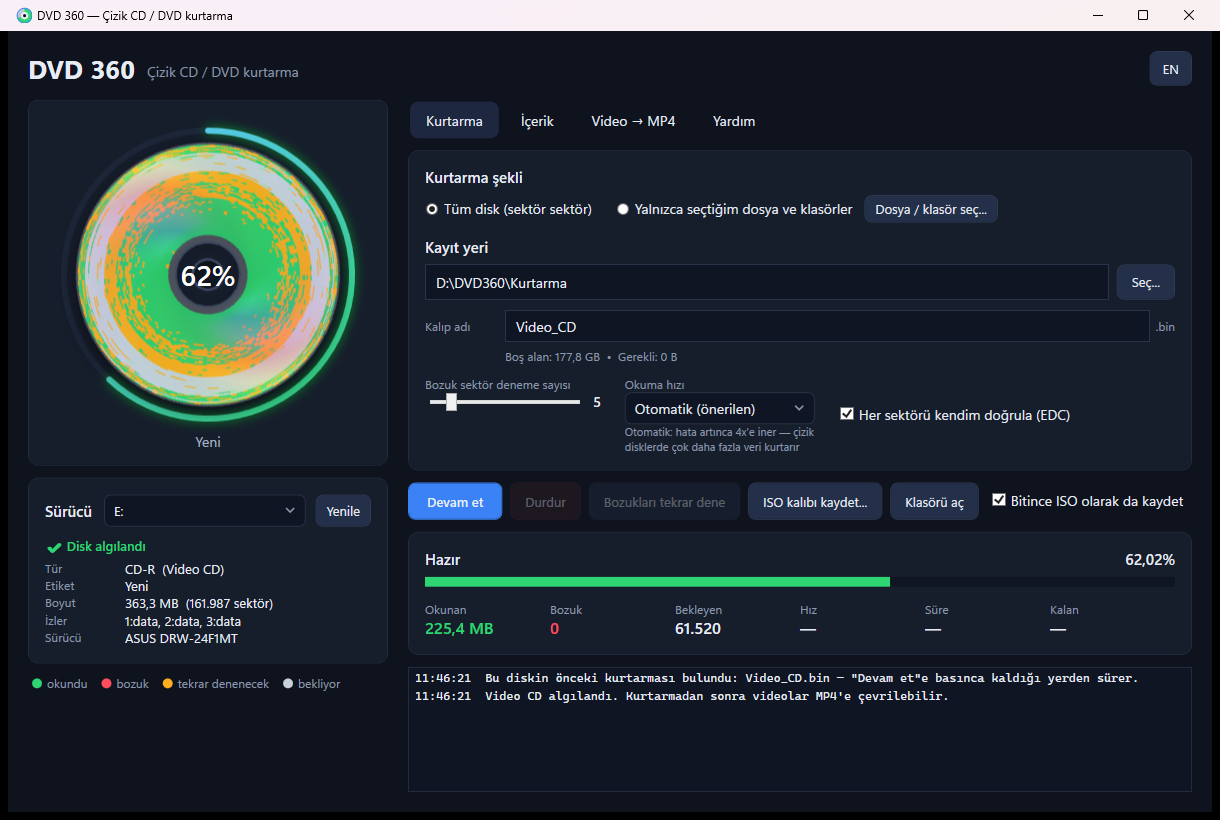
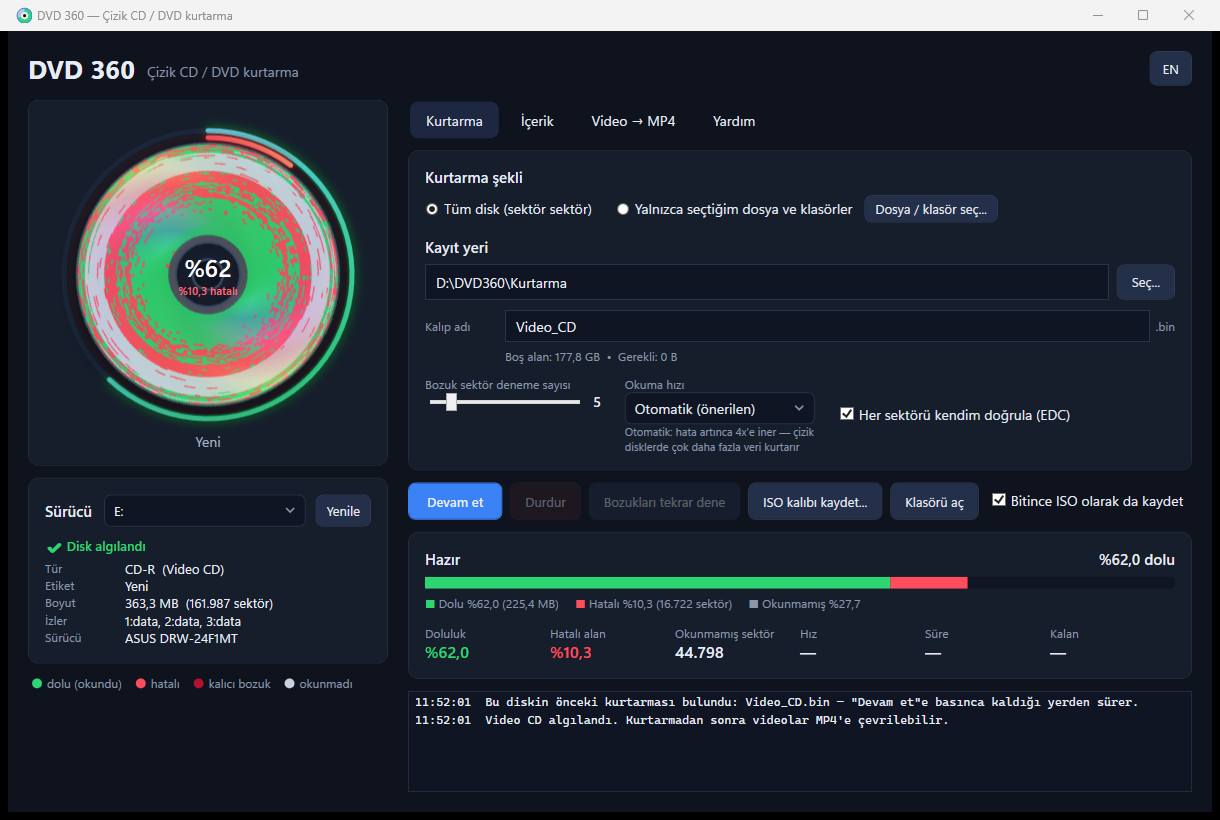
Show fill and error area separately; mark failed sectors red
- Disc: failed sectors are red (bright = will be retried, dark =
  permanently bad). The outer green ring shows how full the copy is,
  a new inner red ring shows the error area; the hub shows both.
- Rescue screen: a three-colour bar (filled / errors / unread) with
  sizes, and separate Filled and Error area cards.
- Contents tree: each file shows "% filled • N errors".
- Percentages follow the language (%62 in Turkish, 62% in English).
- Screenshots and README updated.

diff --git a/src/Dvd360.App/MainWindow.xaml b/src/Dvd360.App/MainWindow.xaml
@@ -71,10 +71,10 @@
                     <WrapPanel Margin="4,0">
                         <Ellipse Width="10" Height="10" Fill="{StaticResource OkBrush}" Margin="0,0,5,0"/>
                         <TextBlock Style="{StaticResource Muted}" Text="{Binding [LegendOk], Source={x:Static local:Loc.I}}" Margin="0,0,14,0"/>
-                        <Ellipse Width="10" Height="10" Fill="{StaticResource BadBrush}" Margin="0,0,5,0"/>
-                        <TextBlock Style="{StaticResource Muted}" Text="{Binding [LegendBad], Source={x:Static local:Loc.I}}" Margin="0,0,14,0"/>
                         <Ellipse Width="10" Height="10" Fill="{StaticResource RetryBrush}" Margin="0,0,5,0"/>
                         <TextBlock Style="{StaticResource Muted}" Text="{Binding [LegendRetry], Source={x:Static local:Loc.I}}" Margin="0,0,14,0"/>
+                        <Ellipse Width="10" Height="10" Fill="{StaticResource DeadBrush}" Margin="0,0,5,0"/>
+                        <TextBlock Style="{StaticResource Muted}" Text="{Binding [LegendBad], Source={x:Static local:Loc.I}}" Margin="0,0,14,0"/>
                         <Ellipse Width="10" Height="10" Fill="{StaticResource WaitBrush}" Margin="0,0,5,0"/>
                         <TextBlock Style="{StaticResource Muted}" Text="{Binding [LegendWait], Source={x:Static local:Loc.I}}"/>
                     </WrapPanel>
@@ -155,10 +155,22 @@
                                     <TextBlock x:Name="PercentText" DockPanel.Dock="Right" FontWeight="SemiBold" FontSize="15"/>
                                     <TextBlock x:Name="PassText" Style="{StaticResource H2}" Text="{Binding [Pass_Idle], Source={x:Static local:Loc.I}}"/>
                                 </DockPanel>
-                                <ProgressBar x:Name="Progress" Maximum="1000"/>
+                                <!-- filled (green) | errors (red) | unread (grey), shown separately -->
+                                <Border CornerRadius="5" Height="12" Background="#0F1522" ClipToBounds="True">
+                                    <Grid>
+                                        <Grid.ColumnDefinitions>
+                                            <ColumnDefinition x:Name="SegOk" Width="0*"/>
+                                            <ColumnDefinition x:Name="SegErr" Width="0*"/>
+                                            <ColumnDefinition x:Name="SegRest" Width="1*"/>
+                                        </Grid.ColumnDefinitions>
+                                        <Border Grid.Column="0" Background="{StaticResource OkBrush}"/>
+                                        <Border Grid.Column="1" Background="{StaticResource RetryBrush}"/>
+                                    </Grid>
+                                </Border>
+                                <TextBlock x:Name="BarLegend" Style="{StaticResource Muted}" Margin="0,6,0,0"/>
                                 <UniformGrid Columns="6" Margin="0,14,0,0">
                                     <StackPanel><TextBlock Style="{StaticResource Muted}" Text="{Binding [StatOk], Source={x:Static local:Loc.I}}"/><TextBlock x:Name="StatOk" FontSize="16" FontWeight="SemiBold" Foreground="{StaticResource OkBrush}" Text="—"/></StackPanel>
-                                    <StackPanel><TextBlock Style="{StaticResource Muted}" Text="{Binding [StatBad], Source={x:Static local:Loc.I}}"/><TextBlock x:Name="StatBad" FontSize="16" FontWeight="SemiBold" Foreground="{StaticResource BadBrush}" Text="—"/></StackPanel>
+                                    <StackPanel><TextBlock Style="{StaticResource Muted}" Text="{Binding [StatBad], Source={x:Static local:Loc.I}}"/><TextBlock x:Name="StatBad" FontSize="16" FontWeight="SemiBold" Foreground="{StaticResource RetryBrush}" Text="—"/></StackPanel>
                                     <StackPanel><TextBlock Style="{StaticResource Muted}" Text="{Binding [StatPending], Source={x:Static local:Loc.I}}"/><TextBlock x:Name="StatPending" FontSize="16" FontWeight="SemiBold" Text="—"/></StackPanel>
                                     <StackPanel><TextBlock Style="{StaticResource Muted}" Text="{Binding [StatSpeed], Source={x:Static local:Loc.I}}"/><TextBlock x:Name="StatSpeed" FontSize="16" FontWeight="SemiBold" Text="—"/></StackPanel>
                                     <StackPanel><TextBlock Style="{StaticResource Muted}" Text="{Binding [StatElapsed], Source={x:Static local:Loc.I}}"/><TextBlock x:Name="StatElapsed" FontSize="16" FontWeight="SemiBold" Text="—"/></StackPanel>

diff --git a/src/Dvd360.App/App.xaml b/src/Dvd360.App/App.xaml
@@ -14,7 +14,8 @@
         <SolidColorBrush x:Key="AccentHover" Color="#5B9BFF"/>
         <SolidColorBrush x:Key="OkBrush" Color="#2ED573"/>
         <SolidColorBrush x:Key="BadBrush" Color="#FF4D5E"/>
-        <SolidColorBrush x:Key="RetryBrush" Color="#FFB020"/>
+        <SolidColorBrush x:Key="RetryBrush" Color="#FF4D5E"/>
+        <SolidColorBrush x:Key="DeadBrush" Color="#B3122E"/>
         <SolidColorBrush x:Key="WaitBrush" Color="#C9D1DC"/>
 
         <Style TargetType="TextBlock">

diff --git a/src/Dvd360.App/DiscView.cs b/src/Dvd360.App/DiscView.cs
@@ -40,13 +40,15 @@ public sealed class DiscView : Grid
     private readonly Grid _disc = new();
     private readonly RotateTransform _spin = new();
     private readonly ScaleTransform _pop = new(1, 1);
-    private readonly Ellipse _emptySlot, _track;
-    private readonly Path _ring = new() { StrokeThickness = 6, StrokeStartLineCap = PenLineCap.Round, StrokeEndLineCap = PenLineCap.Round, IsHitTestVisible = false };
+    private readonly Ellipse _emptySlot, _track, _errTrack;
+    private readonly Path _ring = new() { StrokeThickness = 5, StrokeStartLineCap = PenLineCap.Round, StrokeEndLineCap = PenLineCap.Round, IsHitTestVisible = false };
+    private readonly Path _errRing = new() { StrokeThickness = 5, StrokeStartLineCap = PenLineCap.Round, StrokeEndLineCap = PenLineCap.Round, IsHitTestVisible = false };
+    private readonly TextBlock _centerErr = new() { FontSize = 11, FontWeight = FontWeights.SemiBold, Foreground = new SolidColorBrush(Color.FromRgb(0xFF, 0x6B, 0x7A)), HorizontalAlignment = HorizontalAlignment.Center, IsHitTestVisible = false };
     private readonly DropShadowEffect _ringGlow = new() { Color = Color.FromRgb(0x2E, 0xD5, 0x73), BlurRadius = 16, ShadowDepth = 0, Opacity = 0.9 };
     private readonly Canvas _overlay = new() { IsHitTestVisible = false };
     private readonly Line _beam = new() { StrokeThickness = 3, StrokeStartLineCap = PenLineCap.Round, StrokeEndLineCap = PenLineCap.Round };
     private readonly Ellipse _head, _ripple;
-    private readonly TextBlock _center = new() { FontSize = 28, FontWeight = FontWeights.SemiBold, Foreground = Brushes.White, HorizontalAlignment = HorizontalAlignment.Center, VerticalAlignment = VerticalAlignment.Center, IsHitTestVisible = false };
+    private readonly TextBlock _center = new() { FontSize = 24, FontWeight = FontWeights.SemiBold, Foreground = Brushes.White, HorizontalAlignment = HorizontalAlignment.Center, VerticalAlignment = VerticalAlignment.Center, IsHitTestVisible = false };
     private readonly TextBlock _caption = new() { FontSize = 14, Foreground = new SolidColorBrush(Color.FromRgb(0xA8, 0xB3, 0xC7)), HorizontalAlignment = HorizontalAlignment.Center, VerticalAlignment = VerticalAlignment.Bottom, Margin = new Thickness(0, 0, 0, -26), IsHitTestVisible = false };
     private readonly ToolTip _tip = new() { Placement = System.Windows.Controls.Primitives.PlacementMode.Mouse, HorizontalOffset = 14, VerticalOffset = 14 };
     private readonly DispatcherTimer _flashTimer = new() { Interval = TimeSpan.FromMilliseconds(33) };
@@ -58,7 +60,7 @@ public sealed class DiscView : Grid
     private bool _hasPrev;
 
     private static readonly uint Silver = Rgb(0xCB, 0xD3, 0xDE), Ok = Rgb(0x2E, 0xD5, 0x73), OkLight = Rgb(0x8E, 0xE6, 0xB0),
-        Bad = Rgb(0xFF, 0x4D, 0x5E), Retry = Rgb(0xFF, 0xB0, 0x20), Skipped = Rgb(0x3A, 0x42, 0x52),
+        Bad = Rgb(0xB3, 0x12, 0x2E), Retry = Rgb(0xFF, 0x4D, 0x5E), Skipped = Rgb(0x3A, 0x42, 0x52),
         Hub = Rgb(0x1C, 0x24, 0x34), HubEdge = Rgb(0x3A, 0x47, 0x60), Flash = Rgb(0xE6, 0xFF, 0xF4);
 
     public static readonly DependencyProperty ProgressProperty = DependencyProperty.Register(
@@ -68,8 +70,14 @@ public sealed class DiscView : Grid
         nameof(ShownPercent), typeof(double), typeof(DiscView), new PropertyMetadata(0.0, (d, e) =>
         {
             var v = (DiscView)d;
-            if (v._mode is not DiscViewMode.Empty && v._lastMap != null) v._center.Text = $"{Math.Floor((double)e.NewValue * 10) / 10:0.#}%";
+            if (v._mode is not DiscViewMode.Empty && v._lastMap != null) v._center.Text = Loc.T("PctShort", Math.Floor((double)e.NewValue * 10) / 10);
         }));
+
+    public static readonly DependencyProperty ErrorProgressProperty = DependencyProperty.Register(
+        nameof(ErrorProgress), typeof(double), typeof(DiscView), new PropertyMetadata(0.0, (d, _) => ((DiscView)d).UpdateRing()));
+
+    /// <summary>0..1 share of the disc that failed to read, drawn by the inner red ring.</summary>
+    public double ErrorProgress { get => (double)GetValue(ErrorProgressProperty); set => SetValue(ErrorProgressProperty, value); }
 
     /// <summary>0..1, drawn by the glowing ring (animated).</summary>
     public double Progress { get => (double)GetValue(ProgressProperty); set => SetValue(ProgressProperty, value); }
@@ -110,7 +118,10 @@ public sealed class DiscView : Grid
         _disc.Effect = new DropShadowEffect { Color = Colors.Black, BlurRadius = 28, ShadowDepth = 6, Direction = 270, Opacity = 0.55 };
 
         // --- progress ring
-        _track = new Ellipse { Stroke = new SolidColorBrush(Color.FromRgb(0x1C, 0x26, 0x38)), StrokeThickness = 6, Margin = new Thickness(3), IsHitTestVisible = false };
+        _track = new Ellipse { Stroke = new SolidColorBrush(Color.FromRgb(0x1C, 0x26, 0x38)), StrokeThickness = 5, Margin = new Thickness(3.5), IsHitTestVisible = false };
+        _errTrack = new Ellipse { Stroke = new SolidColorBrush(Color.FromRgb(0x24, 0x1A, 0x22)), StrokeThickness = 5, Margin = new Thickness(10.5), IsHitTestVisible = false };
+        _errRing.Stroke = new LinearGradientBrush(Color.FromRgb(0xFF, 0x4D, 0x5E), Color.FromRgb(0xFF, 0x8A, 0x6B), new Point(0, 0), new Point(1, 1));
+        _errRing.Effect = new DropShadowEffect { Color = Color.FromRgb(0xFF, 0x4D, 0x5E), BlurRadius = 12, ShadowDepth = 0, Opacity = 0.85 };
         _ring.Stroke = new LinearGradientBrush(Color.FromRgb(0x5E, 0xC8, 0xFF), Color.FromRgb(0x2E, 0xD5, 0x73), new Point(0, 0), new Point(1, 1));
         _ring.Effect = _ringGlow;
 
@@ -143,9 +154,11 @@ public sealed class DiscView : Grid
         Children.Add(_emptySlot);
         Children.Add(_track);
         Children.Add(_ring);
+        Children.Add(_errTrack);
+        Children.Add(_errRing);
         Children.Add(_disc);
         Children.Add(_overlay);
-        Children.Add(_center);
+        Children.Add(new StackPanel { HorizontalAlignment = HorizontalAlignment.Center, VerticalAlignment = VerticalAlignment.Center, IsHitTestVisible = false, Children = { _center, _centerErr } });
         Children.Add(_caption);
 
         SizeChanged += (_, _) => { UpdateRing(); PlaceHead(_headFraction < 0 ? 0 : _headFraction, animate: false); };
@@ -228,9 +241,9 @@ public sealed class DiscView : Grid
         _mode = mode;
         bool hasDisc = mode is not DiscViewMode.Empty;
         _emptySlot.Visibility = hasDisc ? Visibility.Collapsed : Visibility.Visible;
-        _disc.Visibility = _track.Visibility = _ring.Visibility = hasDisc ? Visibility.Visible : Visibility.Collapsed;
+        _disc.Visibility = _track.Visibility = _ring.Visibility = _errTrack.Visibility = _errRing.Visibility = hasDisc ? Visibility.Visible : Visibility.Collapsed;
         _overlay.Visibility = mode is DiscViewMode.Reading ? Visibility.Visible : Visibility.Collapsed;
-        if (!hasDisc) { _center.Text = ""; _hasPrev = false; }
+        if (!hasDisc) { _center.Text = _centerErr.Text = ""; _hasPrev = false; }
 
         // spin: fast while reading, gentle when idle, coasting to a stop otherwise
         double seconds = mode switch { DiscViewMode.Reading => 0.8, DiscViewMode.Detecting => 1.4, DiscViewMode.Idle => 16, _ => 0 };
@@ -256,7 +269,7 @@ public sealed class DiscView : Grid
             DiscViewMode.Done => new DoubleAnimation(16, 40, TimeSpan.FromMilliseconds(450)) { AutoReverse = true, RepeatBehavior = new RepeatBehavior(3) },
             _ => null,
         });
-        if (mode == DiscViewMode.Empty) { Progress = 0; Render(null, 0); }
+        if (mode == DiscViewMode.Empty) { Progress = 0; ErrorProgress = 0; Render(null, 0); }
     }
 
     private void StartHeadAnimations()
@@ -304,9 +317,11 @@ public sealed class DiscView : Grid
 
             long useful = Math.Max(1, n - map.CountOf(SectorState.Skipped));
             double pct = 100.0 * map.CountOf(SectorState.Ok) / useful;
-            double done = (double)(n - map.CountOf(SectorState.Untried) - map.CountOf(SectorState.NeedsRetry)) / Math.Max(1, n);
+            double errShare = (double)(map.CountOf(SectorState.Bad) + map.CountOf(SectorState.NeedsRetry)) / useful;
             BeginAnimation(ShownPercentProperty, new DoubleAnimation(pct, TimeSpan.FromMilliseconds(600)) { EasingFunction = new QuadraticEase() });
-            BeginAnimation(ProgressProperty, new DoubleAnimation(done, TimeSpan.FromMilliseconds(600)) { EasingFunction = new QuadraticEase() });
+            BeginAnimation(ProgressProperty, new DoubleAnimation(pct / 100, TimeSpan.FromMilliseconds(600)) { EasingFunction = new QuadraticEase() });
+            BeginAnimation(ErrorProgressProperty, new DoubleAnimation(errShare, TimeSpan.FromMilliseconds(600)) { EasingFunction = new QuadraticEase() });
+            _centerErr.Text = errShare > 0 ? Loc.T("ErrShort", errShare * 100) : "";
             PlaceHead((double)currentLba / Math.Max(1, n), animate: true);
         }
         else
@@ -314,8 +329,10 @@ public sealed class DiscView : Grid
             _hasPrev = false;
             Array.Clear(_flash);
             BeginAnimation(ProgressProperty, null);
+            BeginAnimation(ErrorProgressProperty, null);
             Progress = 0;
-            _center.Text = "";
+            ErrorProgress = 0;
+            _center.Text = _centerErr.Text = "";
         }
         Compose();
         if (_flash.Any(f => f > 0) && !_flashTimer.IsEnabled) _flashTimer.Start();
@@ -384,16 +401,19 @@ public sealed class DiscView : Grid
     {
         double w = ActualWidth, h = ActualHeight;
         if (w <= 0 || h <= 0) return;
-        double rr = Math.Min(w, h) / 2 - 6, cx = w / 2, cy = h / 2;
-        double p = Math.Clamp(Progress, 0, 1);
-        if (p <= 0.0005) { _ring.Data = null; return; }
-        if (p >= 0.9995) { _ring.Data = new EllipseGeometry(new Point(cx, cy), rr, rr); return; }
+        _ring.Data = Arc(w, h, Math.Min(w, h) / 2 - 6, Progress);
+        _errRing.Data = Arc(w, h, Math.Min(w, h) / 2 - 13, ErrorProgress);
+    }
+
+    private static Geometry? Arc(double w, double h, double rr, double fraction)
+    {
+        double cx = w / 2, cy = h / 2, p = Math.Clamp(fraction, 0, 1);
+        if (p <= 0.0005) return null;
+        if (p >= 0.9995) return new EllipseGeometry(new Point(cx, cy), rr, rr);
         double a = p * 2 * Math.PI;
-        var start = new Point(cx, cy - rr);
-        var end = new Point(cx + rr * Math.Sin(a), cy - rr * Math.Cos(a));
-        var fig = new PathFigure { StartPoint = start, IsClosed = false };
-        fig.Segments.Add(new ArcSegment(end, new Size(rr, rr), 0, p > 0.5, SweepDirection.Clockwise, true));
-        _ring.Data = new PathGeometry([fig]);
+        var fig = new PathFigure { StartPoint = new Point(cx, cy - rr), IsClosed = false };
+        fig.Segments.Add(new ArcSegment(new Point(cx + rr * Math.Sin(a), cy - rr * Math.Cos(a)), new Size(rr, rr), 0, p > 0.5, SweepDirection.Clockwise, true));
+        return new PathGeometry([fig]);
     }
 
     // ------------------------------------------------------------------ highlight & hit testing

diff --git a/src/Dvd360.App/MainWindow.xaml.cs b/src/Dvd360.App/MainWindow.xaml.cs
@@ -554,10 +554,14 @@ public partial class MainWindow : Window
         ShowStats(engine.Map, engine.Stats);
         if (_scopeRanges != null)
         {
-            long total = _scopeRanges.Sum(r => r.Count), pending = engine.PendingIn(_scopeRanges);
+            long sOk = 0, sErr = 0, sUnread = 0;
+            foreach (var (start, count) in _scopeRanges)
+            {
+                var t = engine.Map.Summarize(start, count);
+                sOk += t.Ok; sErr += t.Bad + t.Retry; sUnread += t.Pending;
+            }
             PassText.Text = Loc.T("Pass_" + engine.Stats.Pass) + "  •  " + Loc.T("SelectedOnly");
-            PercentText.Text = $"{100.0 * (total - pending) / Math.Max(1, total):N1}%";
-            Progress.Value = 1000.0 * (total - pending) / Math.Max(1, total);
+            ShowFillAndErrors(sOk, sErr, sUnread, Math.Max(1, sOk + sErr + sUnread), engine.Map.SectorSize);
         }
         Disc.Render(engine.Map, engine.Stats.CurrentLba);
         if (++_treeTick % 5 == 0) RefreshTreeStatus();
@@ -565,15 +569,11 @@ public partial class MainWindow : Window
 
     private void ShowStats(SectorMap map, RescueStats? stats)
     {
-        long total = map.Count, ok = map.CountOf(SectorState.Ok), bad = map.CountOf(SectorState.Bad);
-        long pending = map.CountOf(SectorState.Untried) + map.CountOf(SectorState.NeedsRetry);
-        long useful = Math.Max(1, total - map.CountOf(SectorState.Skipped));
-        double pct = 100.0 * ok / useful;
-        Progress.Value = 1000.0 * (total - pending) / Math.Max(1, total);
-        PercentText.Text = $"{pct:N2}%";
-        StatOk.Text = FormatBytes(ok * map.SectorSize);
-        StatBad.Text = bad == 0 ? "0" : $"{bad:N0}";
-        StatPending.Text = $"{pending:N0}";
+        long total = map.Count, ok = map.CountOf(SectorState.Ok), skipped = map.CountOf(SectorState.Skipped);
+        long errors = map.CountOf(SectorState.Bad) + map.CountOf(SectorState.NeedsRetry);
+        long unread = map.CountOf(SectorState.Untried);
+        long pending = unread + map.CountOf(SectorState.NeedsRetry);
+        ShowFillAndErrors(ok, errors, unread, Math.Max(1, total - skipped), map.SectorSize);
         if (stats == null) return;
         PassText.Text = Loc.T("Pass_" + stats.Pass);
         double bps = stats.BytesPerSecond;
@@ -581,6 +581,28 @@ public partial class MainWindow : Window
         StatSpeed.Text = bps > 0 ? $"{bps / 1048576:N1} MB/s ({bps / oneX:N1}x)" : "—";
         StatElapsed.Text = stats.Elapsed.ToString(@"hh\:mm\:ss");
         StatEta.Text = bps > 0 && stats.Pass == RescuePass.FastCopy ? TimeSpan.FromSeconds(pending * map.SectorSize / bps).ToString(@"hh\:mm\:ss") : "—";
+    }
+
+    /// <summary>Fill (read) and error area are shown separately: two numbers, a three-colour bar and two rings.</summary>
+    private void ShowFillAndErrors(long ok, long errors, long unread, long useful, int sectorSize)
+    {
+        double fill = 100.0 * ok / useful, err = 100.0 * errors / useful, rest = Math.Max(0, 100 - fill - err);
+        SegOk.Width = new GridLength(fill, GridUnitType.Star);
+        SegErr.Width = new GridLength(err, GridUnitType.Star);
+        SegRest.Width = new GridLength(rest, GridUnitType.Star);
+        PercentText.Text = Loc.T("FillLine", fill);
+        StatOk.Text = Loc.T("Pct", fill);
+        StatBad.Text = Loc.T("Pct", err);
+        StatPending.Text = $"{unread:N0}";
+        BarLegend.Inlines.Clear();
+        void Part(string text, string brush)
+        {
+            BarLegend.Inlines.Add(new System.Windows.Documents.Run("■ ") { Foreground = (System.Windows.Media.Brush)FindResource(brush) });
+            BarLegend.Inlines.Add(new System.Windows.Documents.Run(text + "     "));
+        }
+        Part(Loc.T("BarFilled", fill) + $" ({FormatBytes(ok * sectorSize)})", "OkBrush");
+        Part(Loc.T("BarErrors", err) + $" ({errors:N0} {Loc.T("Sectors")})", "RetryBrush");
+        Part(Loc.T("BarUnread", rest), "MutedBrush");
     }
 
     private void AddLog(string message)

diff --git a/src/Dvd360.App/Loc.cs b/src/Dvd360.App/Loc.cs
@@ -64,17 +64,26 @@ public sealed class Loc : INotifyPropertyChanged
         ["Stop"] = ("Durdur", "Stop"),
         ["RetryBad"] = ("Bozukları tekrar dene", "Retry bad sectors"),
         ["OpenFolder"] = ("Klasörü aç", "Open folder"),
-        ["StatOk"] = ("Okunan", "Read"),
-        ["StatBad"] = ("Bozuk", "Bad"),
-        ["StatPending"] = ("Bekleyen", "Pending"),
+        ["StatOk"] = ("Doluluk", "Filled"),
+        ["StatBad"] = ("Hatalı alan", "Error area"),
+        ["StatPending"] = ("Okunmamış sektör", "Unread sectors"),
+        ["FillLine"] = ("%{0:N1} dolu", "{0:N1}% filled"),
+        ["Pct"] = ("%{0:N1}", "{0:N1}%"),
+        ["PctShort"] = ("%{0:0.#}", "{0:0.#}%"),
+        ["BarFilled"] = ("Dolu %{0:N1}", "Filled {0:N1}%"),
+        ["BarErrors"] = ("Hatalı %{0:N1}", "Errors {0:N1}%"),
+        ["BarUnread"] = ("Okunmamış %{0:N1}", "Unread {0:N1}%"),
+        ["FileFill"] = ("%{0:0.#} dolu", "{0:0.#}% filled"),
+        ["FileFillErr"] = ("%{0:0.#} dolu • {1:N0} hatalı", "{0:0.#}% filled • {1:N0} errors"),
+        ["ErrShort"] = ("%{0:0.#} hatalı", "{0:0.#}% errors"),
         ["StatSpeed"] = ("Hız", "Speed"),
         ["StatElapsed"] = ("Süre", "Elapsed"),
         ["StatEta"] = ("Kalan", "Remaining"),
         ["Legend"] = ("■ okundu   ■ bozuk   ■ tekrar denenecek   ■ bekliyor", "■ read   ■ bad   ■ to retry   ■ waiting"),
-        ["LegendOk"] = ("okundu", "read"),
-        ["LegendBad"] = ("bozuk", "bad"),
-        ["LegendRetry"] = ("tekrar denenecek", "to retry"),
-        ["LegendWait"] = ("bekliyor", "waiting"),
+        ["LegendOk"] = ("dolu (okundu)", "filled (read)"),
+        ["LegendBad"] = ("kalıcı bozuk", "permanently bad"),
+        ["LegendRetry"] = ("hatalı", "errors"),
+        ["LegendWait"] = ("okunmadı", "unread"),
         ["Pass_Idle"] = ("Hazır", "Ready"),
         ["Pass_FastCopy"] = ("1. geçiş: hızlı okuma", "Pass 1: fast read"),
         ["Pass_Gaps"] = ("2. geçiş: atlanan bölgeler", "Pass 2: areas jumped over"),

diff --git a/src/Dvd360.App/Models.cs b/src/Dvd360.App/Models.cs
@@ -37,7 +37,7 @@ public sealed class FileNode : Observable
     }
 
     public static readonly Brush OkBrush = Frozen(0x2E, 0xD5, 0x73), BadBrush = Frozen(0xFF, 0x4D, 0x5E),
-        RetryBrush = Frozen(0xFF, 0xB0, 0x20), MutedBrush = Frozen(0x8C, 0x97, 0xAB), PendingBrush = Frozen(0xC9, 0xD1, 0xDC);
+        RetryBrush = Frozen(0xFF, 0x4D, 0x5E), MutedBrush = Frozen(0x8C, 0x97, 0xAB), PendingBrush = Frozen(0xC9, 0xD1, 0xDC);
 
     private static Brush Frozen(byte r, byte g, byte b) { var x = new SolidColorBrush(Color.FromRgb(r, g, b)); x.Freeze(); return x; }
 
@@ -115,9 +115,8 @@ public sealed class FileNode : Observable
         else
         {
             double pct = 100.0 * t.Ok / total;
-            StateText = t.Bad > 0 ? $"⚠ {Loc.T("StateBad", t.Bad)} • %{pct:0.#}"
-                : t.Retry > 0 ? $"%{pct:0.#} • {Loc.T("LegendRetry")} {t.Retry}"
-                : $"%{pct:0.#} {Loc.T("LegendOk")}";
+            long errors = t.Bad + t.Retry;
+            StateText = errors > 0 ? Loc.T("FileFillErr", pct, errors) : Loc.T("FileFill", pct);
             StateBrush = t.Bad > 0 ? BadBrush : t.Retry > 0 ? RetryBrush : PendingBrush;
         }
         return t;

diff --git a/README.md b/README.md
@@ -7,7 +7,7 @@
 [![İndir / Download](https://img.shields.io/github/v/release/OmerCarnacar/DVD_360?label=%C4%B0ndir%20%2F%20Download&style=for-the-badge)](https://github.com/OmerCarnacar/DVD_360/releases/latest)
 [![Lisans: MIT](https://img.shields.io/badge/Lisans-MIT-green?style=for-the-badge)](LICENSE)
 
-![Kurtarma ekranı: disk, okunan (yeşil), tekrar denenecek (turuncu) ve henüz okunmamış (gümüş) bölgeleri gerçek konumlarında gösteriyor](docs/screenshots/01-kurtarma.png)
+![Kurtarma ekranı: disk, dolu (yeşil), hatalı (kırmızı) ve henüz okunmamış (gümüş) bölgeleri gerçek konumlarında gösteriyor](docs/screenshots/01-kurtarma.png)
 
 | İçerik: her dosyanın durumu, seçilen dosya diskte parlıyor | Yardım ve İngilizce arayüz |
 |---|---|
@@ -29,7 +29,7 @@ Her okumanın bir zaman aşımı vardır, bu yüzden program hiç donmaz. Her CD
 ## Özellikler
 
 - 💿 **Otomatik algılama:** Disk takıldığı anda tanınır, türü ve içeriği gösterilir.
-- 🔄 **Canlı disk animasyonu:** Disk döner, okunan bölgeler gerçek konumlarında yeşille dolar. Bozuklar kırmızı, tekrar denenecekler sarı görünür.
+- 🔄 **Canlı disk animasyonu:** Disk döner, okunan bölgeler gerçek konumlarında yeşille dolar, hatalı yerler kırmızı işaretlenir. **Doluluk** (yeşil halka) ve **hatalı alan** (kırmızı halka) ayrı ayrı gösterilir.
 - 🧩 **Sektör sektör kurtarma:** İlerleme kaydedilir, istediğiniz zaman durdurup devam edebilirsiniz.
 - 📀 **ISO kalıbı:** Veri CD'leri birebir kopyalanır. Video CD'lerde tüm dosyalar eksiksiz olarak yeni bir ISO'ya yerleştirilir. Ayrıca ham `.bin/.cue` kopya da tutulur.
 - 🖥 **Sanal CD:** Tek tıkla Windows'a sürücü olarak bağlanır ve Gezgin'de açılır.
